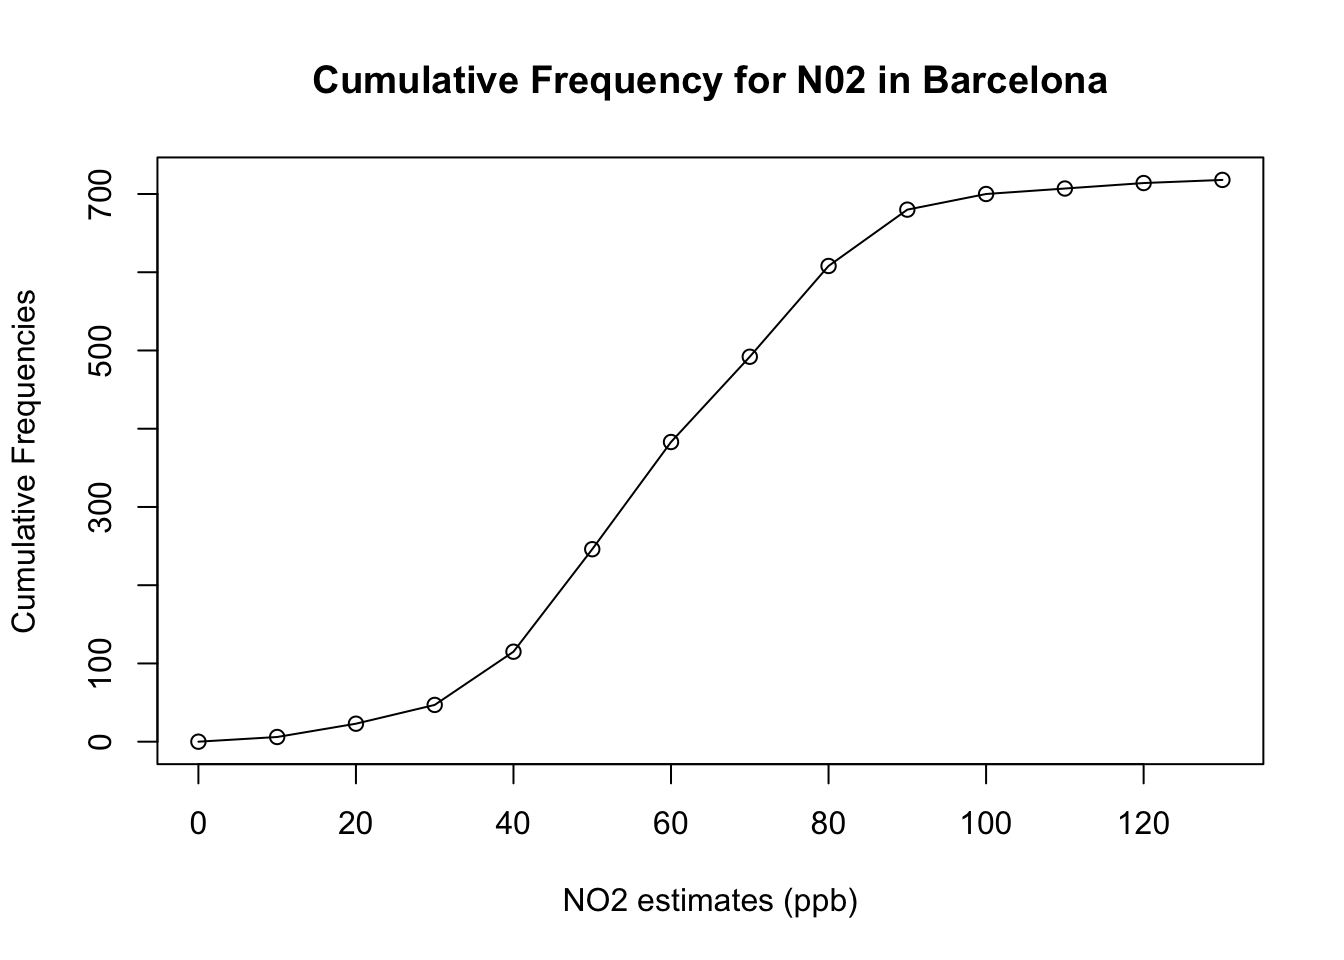
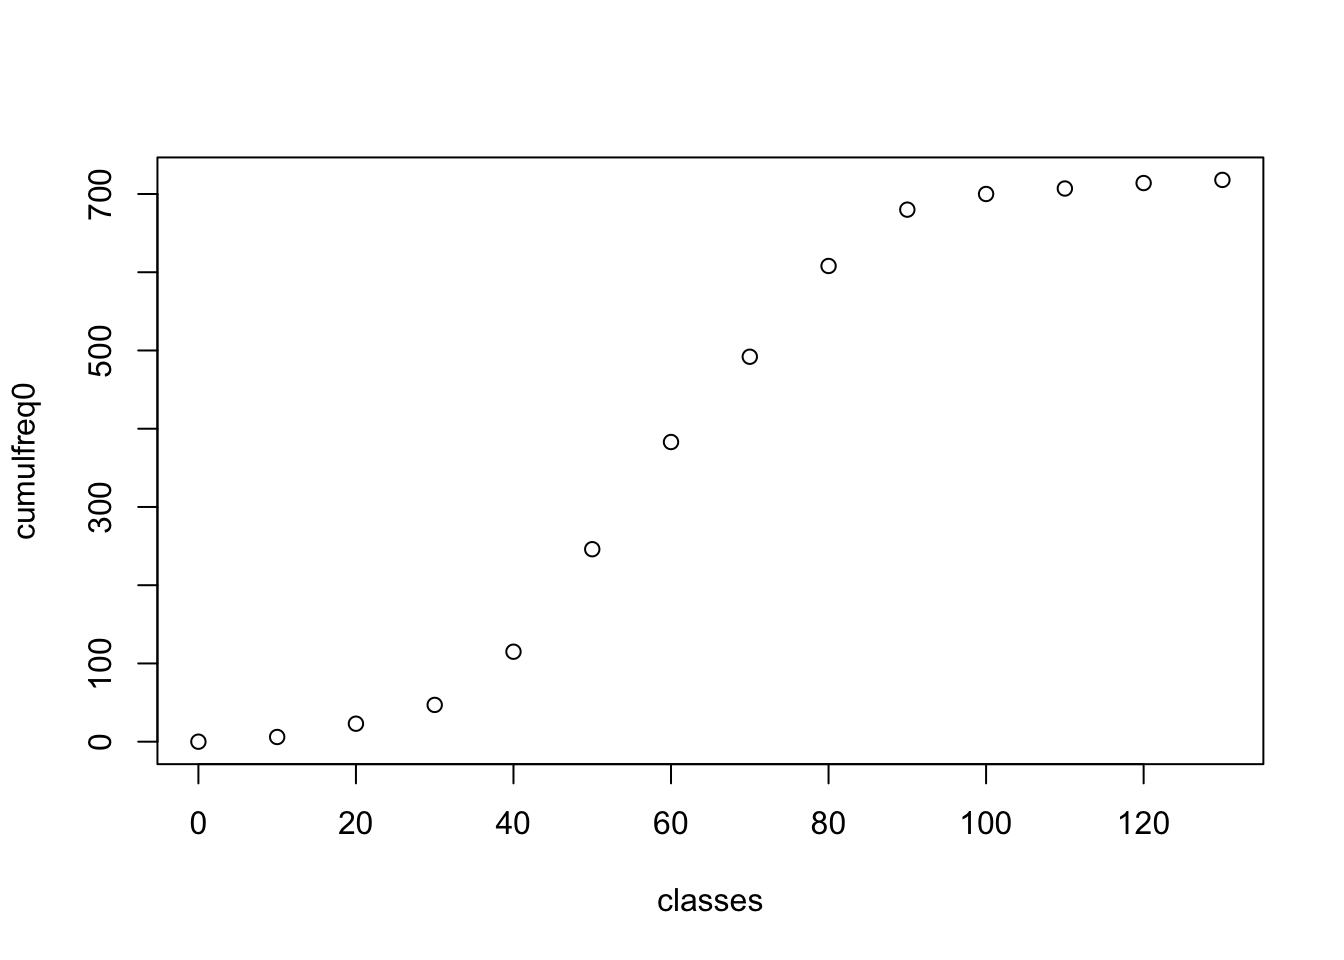
Add Video and Bug Fixes to Week 3

diff --git a/docs/04-frequency_distribution.html b/docs/04-frequency_distribution.html
@@ -259,7 +259,7 @@ window.Quarto = {
   <li><a href="#frequency-distributions" id="toc-frequency-distributions" class="nav-link" data-scroll-target="#frequency-distributions"><span class="header-section-number">1.4</span> Frequency Distributions</a>
   <ul class="collapse">
   <li><a href="#using-the-cut-seq-table-functions-length-001756" id="toc-using-the-cut-seq-table-functions-length-001756" class="nav-link" data-scroll-target="#using-the-cut-seq-table-functions-length-001756"><span class="header-section-number">1.4.1</span> Using the <code>cut()</code>, <code>seq()</code> &amp; <code>table()</code> functions (Length: 00:17:56)</a></li>
-  <li><a href="#computing-the-frequency-distribution-table" id="toc-computing-the-frequency-distribution-table" class="nav-link" data-scroll-target="#computing-the-frequency-distribution-table"><span class="header-section-number">1.4.2</span> Computing the Frequency Distribution Table</a></li>
+  <li><a href="#computing-the-frequency-distribution-table-length-002753" id="toc-computing-the-frequency-distribution-table-length-002753" class="nav-link" data-scroll-target="#computing-the-frequency-distribution-table-length-002753"><span class="header-section-number">1.4.2</span> Computing the Frequency Distribution Table (Length: 00:27:53)</a></li>
   <li><a href="#graphical-representation-of-frequency-data" id="toc-graphical-representation-of-frequency-data" class="nav-link" data-scroll-target="#graphical-representation-of-frequency-data"><span class="header-section-number">1.4.3</span> Graphical Representation of Frequency Data</a></li>
   </ul></li>
   </ul></li>
@@ -683,8 +683,18 @@ Important
 </div>
 </div>
 </section>
-<section id="computing-the-frequency-distribution-table" class="level3" data-number="1.4.2">
-<h3 data-number="1.4.2" class="anchored" data-anchor-id="computing-the-frequency-distribution-table"><span class="header-section-number">1.4.2</span> Computing the Frequency Distribution Table</h3>
+<section id="computing-the-frequency-distribution-table-length-002753" class="level3" data-number="1.4.2">
+<h3 data-number="1.4.2" class="anchored" data-anchor-id="computing-the-frequency-distribution-table-length-002753"><span class="header-section-number">1.4.2</span> Computing the Frequency Distribution Table (Length: 00:27:53)</h3>
+<div class="cell" data-warnings="false">
+<div class="cell-output-display">
+<div class="vembedr" align="center">
+<div>
+<iframe src="https://www.youtube.com/embed/YPoGo74MWTY" width="711" height="400" frameborder="0" allowfullscreen="" data-external="1"></iframe>
+</div>
+</div>
+</div>
+</div>
+<p><a href="https://youtu.be/YPoGo74MWTY">[<strong>Watch on YouTube</strong>]</a></p>
 <p>We can now generate our <strong>Frequency Table</strong> and hence determine <strong>Frequency</strong> and <strong>Cumulative Frequency</strong> of the ambient levels of NO<span class="math inline">\(_2\)</span> in Eixample. We perform by using the <code>table()</code> function to tabulate the frequency of values that were grouped within an interval using the <code>Group</code> column.</p>
 <div class="cell">
 <div class="sourceCode cell-code" id="cb13"><pre class="sourceCode r code-with-copy"><code class="sourceCode r"><span id="cb13-1"><a href="#cb13-1" aria-hidden="true" tabindex="-1"></a><span class="fu">table</span>(air_quality_data<span class="sc">$</span>Groups)</span></code><button title="Copy to Clipboard" class="code-copy-button"><i class="bi"></i></button></pre></div>
@@ -860,12 +870,29 @@ Note
 <p>Lastly, we then compute its cumulative frequency with the <code>cumsum()</code> function to support the interpretation. The coding needs a bit of hacking because we need to force a starting zero element for this graph to work.</p>
 <div class="cell">
 <div class="sourceCode cell-code" id="cb26"><pre class="sourceCode r code-with-copy"><code class="sourceCode r"><span id="cb26-1"><a href="#cb26-1" aria-hidden="true" tabindex="-1"></a>cumulfreq0 <span class="ot">&lt;-</span> <span class="fu">c</span>(<span class="dv">0</span>, <span class="fu">cumsum</span>(frequency_results<span class="sc">$</span>Frequency))</span>
-<span id="cb26-2"><a href="#cb26-2" aria-hidden="true" tabindex="-1"></a><span class="fu">plot</span>(classes, cumulfreq0, <span class="at">main=</span><span class="st">"Cumulative Frequency for N02 in Barcelona"</span>, <span class="at">xlab=</span><span class="st">"NO2 estimates (ppb)"</span>, <span class="at">ylab=</span><span class="st">"Cumulative Frequencies"</span>)</span>
-<span id="cb26-3"><a href="#cb26-3" aria-hidden="true" tabindex="-1"></a><span class="fu">lines</span>(classes, cumulfreq0) </span></code><button title="Copy to Clipboard" class="code-copy-button"><i class="bi"></i></button></pre></div>
+<span id="cb26-2"><a href="#cb26-2" aria-hidden="true" tabindex="-1"></a><span class="fu">plot</span>(classes, cumulfreq0)</span></code><button title="Copy to Clipboard" class="code-copy-button"><i class="bi"></i></button></pre></div>
 <div class="cell-output-display">
 <div>
 <figure class="figure">
 <p><img src="04-frequency_distribution_files/figure-html/cumsum_plot-1.png" class="img-fluid figure-img" width="672"></p>
+</figure>
+</div>
+</div>
+</div>
+<p>Apply the appropriate cosmetics to output by adding the following:</p>
+<ul>
+<li>Main title</li>
+<li>Axis titles for x- and y-axis</li>
+<li>Connecting the points to form a full cumulative/ogive plot</li>
+</ul>
+<div class="cell">
+<div class="sourceCode cell-code" id="cb27"><pre class="sourceCode r code-with-copy"><code class="sourceCode r"><span id="cb27-1"><a href="#cb27-1" aria-hidden="true" tabindex="-1"></a>cumulfreq0 <span class="ot">&lt;-</span> <span class="fu">c</span>(<span class="dv">0</span>, <span class="fu">cumsum</span>(frequency_results<span class="sc">$</span>Frequency))</span>
+<span id="cb27-2"><a href="#cb27-2" aria-hidden="true" tabindex="-1"></a><span class="fu">plot</span>(classes, cumulfreq0, <span class="at">main=</span><span class="st">"Cumulative Frequency for N02 in Barcelona"</span>, <span class="at">xlab=</span><span class="st">"NO2 estimates (ppb)"</span>, <span class="at">ylab=</span><span class="st">"Cumulative Frequencies"</span>)</span>
+<span id="cb27-3"><a href="#cb27-3" aria-hidden="true" tabindex="-1"></a><span class="fu">lines</span>(classes, cumulfreq0) </span></code><button title="Copy to Clipboard" class="code-copy-button"><i class="bi"></i></button></pre></div>
+<div class="cell-output-display">
+<div>
+<figure class="figure">
+<p><img src="04-frequency_distribution_files/figure-html/cumsum_cosmetics-1.png" class="img-fluid figure-img" width="672"></p>
 </figure>
 </div>
 </div>
